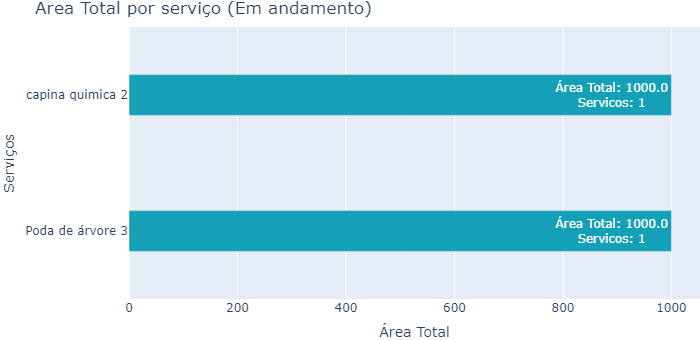
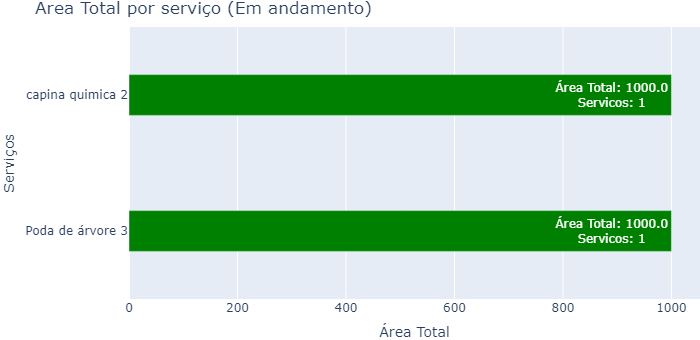
CORRIGE REPORTS

Changed region(s): [[0.18, 0.6176, 0.96, 0.7647], [0.18, 0.2059, 0.96, 0.3529]]

diff --git a/relatorios/jardinagem/utils.py b/relatorios/jardinagem/utils.py
@@ -257,7 +257,7 @@ def graphs_jardinagem_agendado_to_reports(request, userid, agendado):
         name_fig='figs_agendado_localidade',
         filters={'status': 'Agendado'},
         field_name='Areas__localidade__nome',
-        title='Área Total por localidade (Atrasados)',
+        title='Área Total por localidade (Agendados)',
         label_type='Localidade',
         color='#14a0b6',
         sum_by='Areas__dimensao',
@@ -269,7 +269,7 @@ def graphs_jardinagem_agendado_to_reports(request, userid, agendado):
         name_fig='figs_agendado_area',
         filters={'status': 'Agendado'},
         field_name='Areas__nome',
-        title='Área Total por área verde (Atrasados)',
+        title='Área Total por área verde (Agendados)',
         label_type='Área',
         color='#14a0b6',
         sum_by='Areas__dimensao',
@@ -312,7 +312,7 @@ def graphs_jardinagem_em_andamento_to_reports(request, userid, agendado):
         field_name='Areas__Terreno__nome',
         title='Área Total por Tipo de Terreno (Em andamento)',
         label_type='Terreno',
-        color='#14a0b6',
+        color='#008000',
         sum_by='Areas__dimensao',
         count_by='id',
     )
@@ -323,7 +323,7 @@ def graphs_jardinagem_em_andamento_to_reports(request, userid, agendado):
         field_name='Areas__vegetacao__nome',
         title='Área Total por Tipo de Vegeteção (Em andamento)',
         label_type='Vegeteção',
-        color='#14a0b6',
+        color='#008000',
         sum_by='Areas__dimensao',
         count_by='id',
     )
@@ -334,7 +334,7 @@ def graphs_jardinagem_em_andamento_to_reports(request, userid, agendado):
         field_name='Areas__localidade__nome',
         title='Área Total por localidade (Em andamento)',
         label_type='Localidade',
-        color='#14a0b6',
+        color='#008000',
         sum_by='Areas__dimensao',
         count_by='id',
     )
@@ -345,7 +345,7 @@ def graphs_jardinagem_em_andamento_to_reports(request, userid, agendado):
         field_name='Areas__nome',
         title='Área Total por área verde (Em andamento)',
         label_type='Área',
-        color='#14a0b6',
+        color='#008000',
         sum_by='Areas__dimensao',
         count_by='id',
     )
@@ -356,7 +356,7 @@ def graphs_jardinagem_em_andamento_to_reports(request, userid, agendado):
         field_name='ColaboradoresEscalados__username',
         title='Área Total por colaborador (Em andamento)',
         label_type='Colaborador',
-        color='#14a0b6',
+        color='#008000',
         sum_by='Areas__dimensao',
         count_by='id',
     )
@@ -367,7 +367,7 @@ def graphs_jardinagem_em_andamento_to_reports(request, userid, agendado):
         field_name='ServicosEscalados__nome',
         title='Área Total por serviço (Em andamento)',
         label_type='Serviços',
-        color='#14a0b6',
+        color='#008000',
         sum_by='Areas__dimensao',
         count_by='id',
     )

diff --git a/relatorios/limpeza_predial/utils.py b/relatorios/limpeza_predial/utils.py
@@ -127,7 +127,7 @@ def graphs_limpeza_predial_agendado_to_reports(request, userid, agendado):
         name_fig='figs_agendado_localidade',
         filters={'status_servico': 'Agendado'},
         field_name='localidade',
-        title='Área Total por localidade (Atrasados)',
+        title='Área Total por localidade (Agendados)',
         label_type='Localidade',
         color='#14a0b6',
         sum_by='Areas__dimensao',
@@ -139,7 +139,7 @@ def graphs_limpeza_predial_agendado_to_reports(request, userid, agendado):
         name_fig='figs_agendado_area',
         filters={'status_servico': 'Agendado'},
         field_name='area_atendida',
-        title='Área Total por área verde (Atrasados)',
+        title='Área Total por área verde (Agendados)',
         label_type='Área',
         color='#14a0b6',
         sum_by='area_total',
@@ -169,7 +169,7 @@ def graphs_limpeza_predial_em_andamento_to_reports(request, userid, agendado):
         field_name='localidade',
         title='Área Total por localidade (Em andamento)',
         label_type='Localidade',
-        color='#14a0b6',
+        color='#008000',
         sum_by='Areas__dimensao',
         count_by='id',
     )
@@ -180,7 +180,7 @@ def graphs_limpeza_predial_em_andamento_to_reports(request, userid, agendado):
         field_name='area_atendida',
         title='Área Total por área verde (Em andamento)',
         label_type='Área',
-        color='#14a0b6',
+        color='#008000',
         sum_by='area_total',
         count_by='id',
     )
@@ -191,7 +191,7 @@ def graphs_limpeza_predial_em_andamento_to_reports(request, userid, agendado):
         field_name='ServicosEscalados__nome',
         title='Área Total por serviço (Em andamento)',
         label_type='Serviços',
-        color='#14a0b6',
+        color='#008000',
         sum_by='area_total',
         count_by='id',
     )
